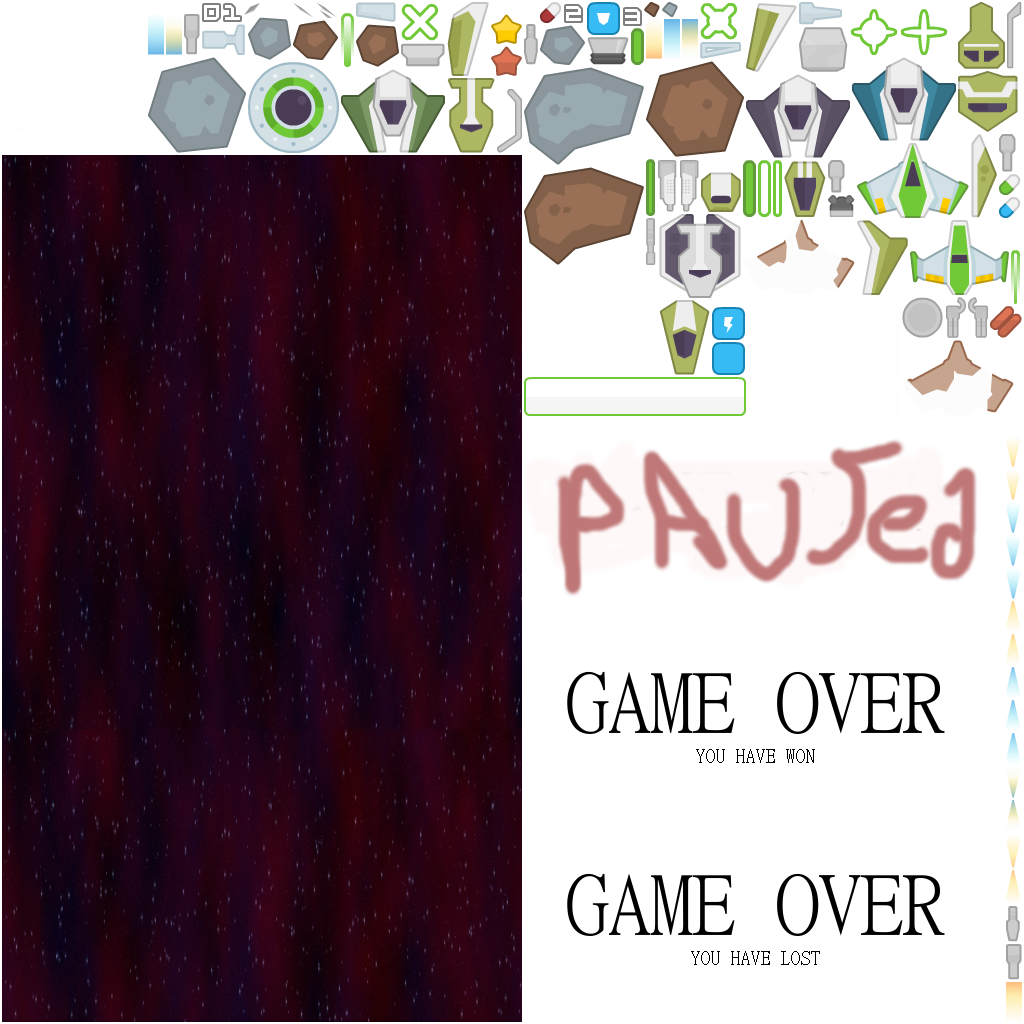
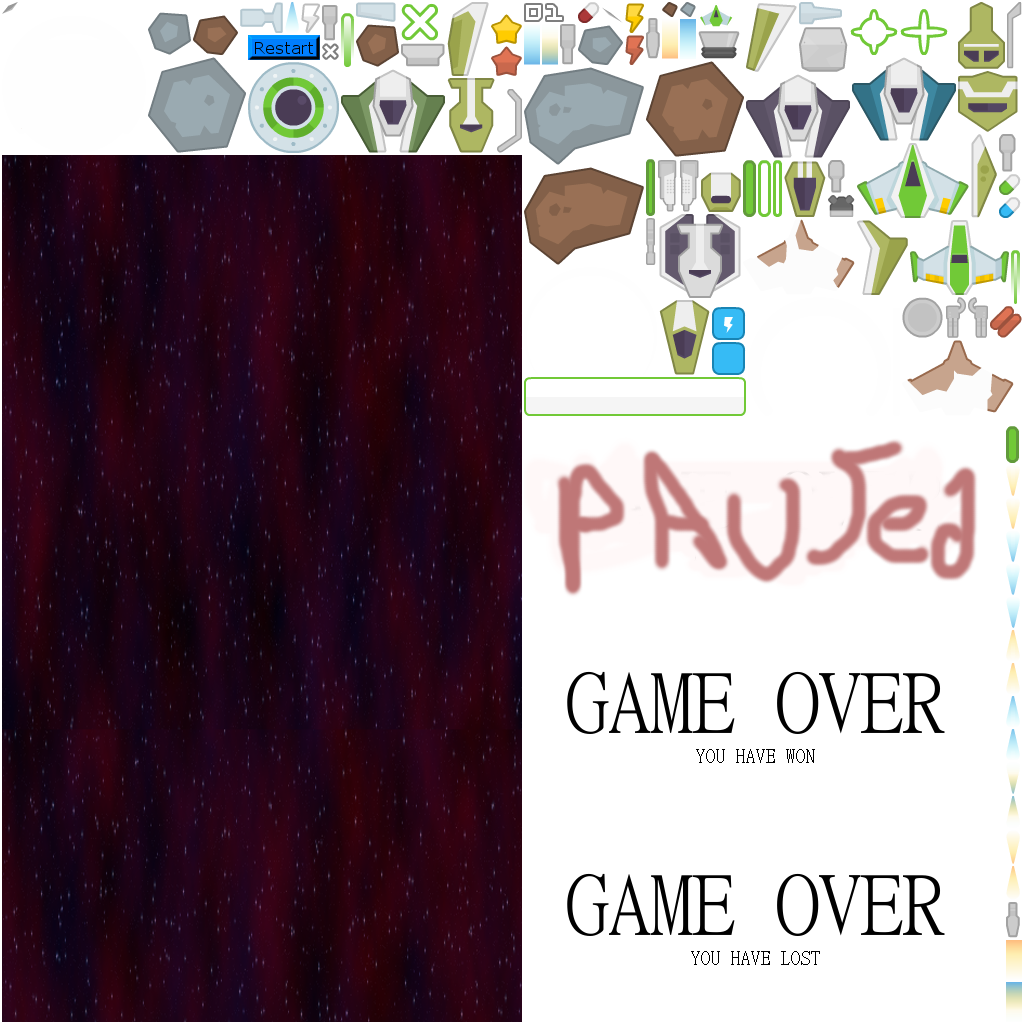
working on the restart button

diff --git a/core/src/com/arne5/spaceinvaders/screen/GameOverScreen.java b/core/src/com/arne5/spaceinvaders/screen/GameOverScreen.java
@@ -11,6 +11,8 @@ import com.badlogic.gdx.graphics.g2d.BitmapFont;
 import com.badlogic.gdx.graphics.g2d.Sprite;
 import com.badlogic.gdx.graphics.g2d.SpriteBatch;
 import com.badlogic.gdx.graphics.g2d.GlyphLayout;
+import com.badlogic.gdx.math.Vector2;
+
 
 /**
  * Created by urvaius on 9/21/14.
@@ -19,6 +21,7 @@ public class GameOverScreen extends Screen
 	{
 		private OrthoCamera camera;
 		private Sprite sprite;
+		private Sprite restartButton;
 		private BitmapFont highScoreFont;
 		private GlyphLayout layout;
 
@@ -46,6 +49,7 @@ public class GameOverScreen extends Screen
 				highScoreFont = new BitmapFont();
 				highScoreFont.setColor(Color.WHITE);
 				layout = new GlyphLayout();
+				restartButton = Assets.restartButton;
 
 
 				Gdx.app.getPreferences("GamePref").flush();
@@ -54,9 +58,22 @@ public class GameOverScreen extends Screen
 
 		@Override
 		public void update()
+
 			{
 				camera.update();
 			}
+
+
+
+		/*if(Gdx.input.isTouched())
+
+		{
+			Vector2 touch = camera.unprojectCoordinates(Gdx.input.getX(), Gdx.input.getY());
+			if (touch.x < 0 + Assets.restartButton.getWidth() && touch.y < 0 + Assets.restartButton.getHeight())
+				{
+
+				}
+		}*/
 
 		@Override
 		public void render(SpriteBatch sb)
@@ -68,7 +85,7 @@ public class GameOverScreen extends Screen
 				layout.setText(highScoreFont, "HighScore "+ Gdx.app.getPreferences("GamePref").getInteger("HighScore"));
 
 				highScoreFont.draw(sb,layout, 10 , SpaceInvaders.HEIGHT - highScoreFont.getXHeight() -layout.height*2 );
-
+				sb.draw(restartButton,0,0);
 				sb.end();
 			}
 

diff --git a/core/src/com/arne5/spaceinvaders/Assets.java b/core/src/com/arne5/spaceinvaders/Assets.java
@@ -30,6 +30,7 @@ public class Assets
 		public static Sprite gameBack;
 		public static Sprite gameWon;
 		public static Sprite gameOver;
+		public static Sprite restartButton;
 		public static Sound laser;
 		public static Music gameMusic;
 		//public static Sprite paused;
@@ -48,7 +49,7 @@ public class Assets
 
 				PLAYER.setSize(PLAYER.getWidth()/2,PLAYER.getHeight()/2);
 
-
+				restartButton= atlas.createSprite("restart");
 				shootButton = atlas.createSprite("powerupBlue");
 				startScreen = atlas.createSprite("startscreen2");
 
